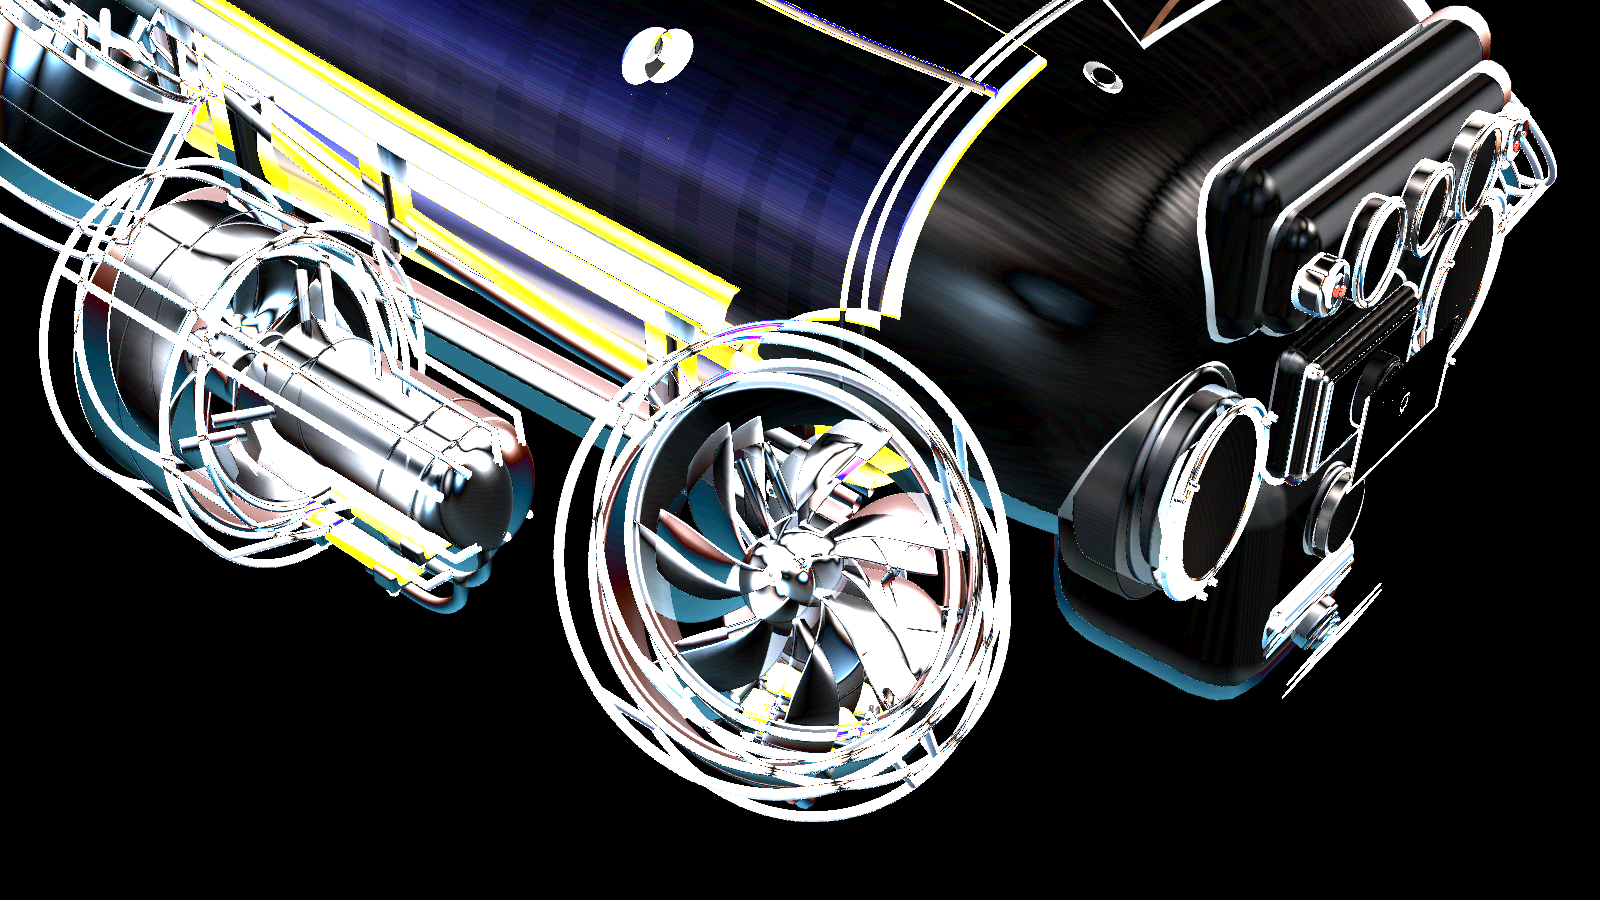
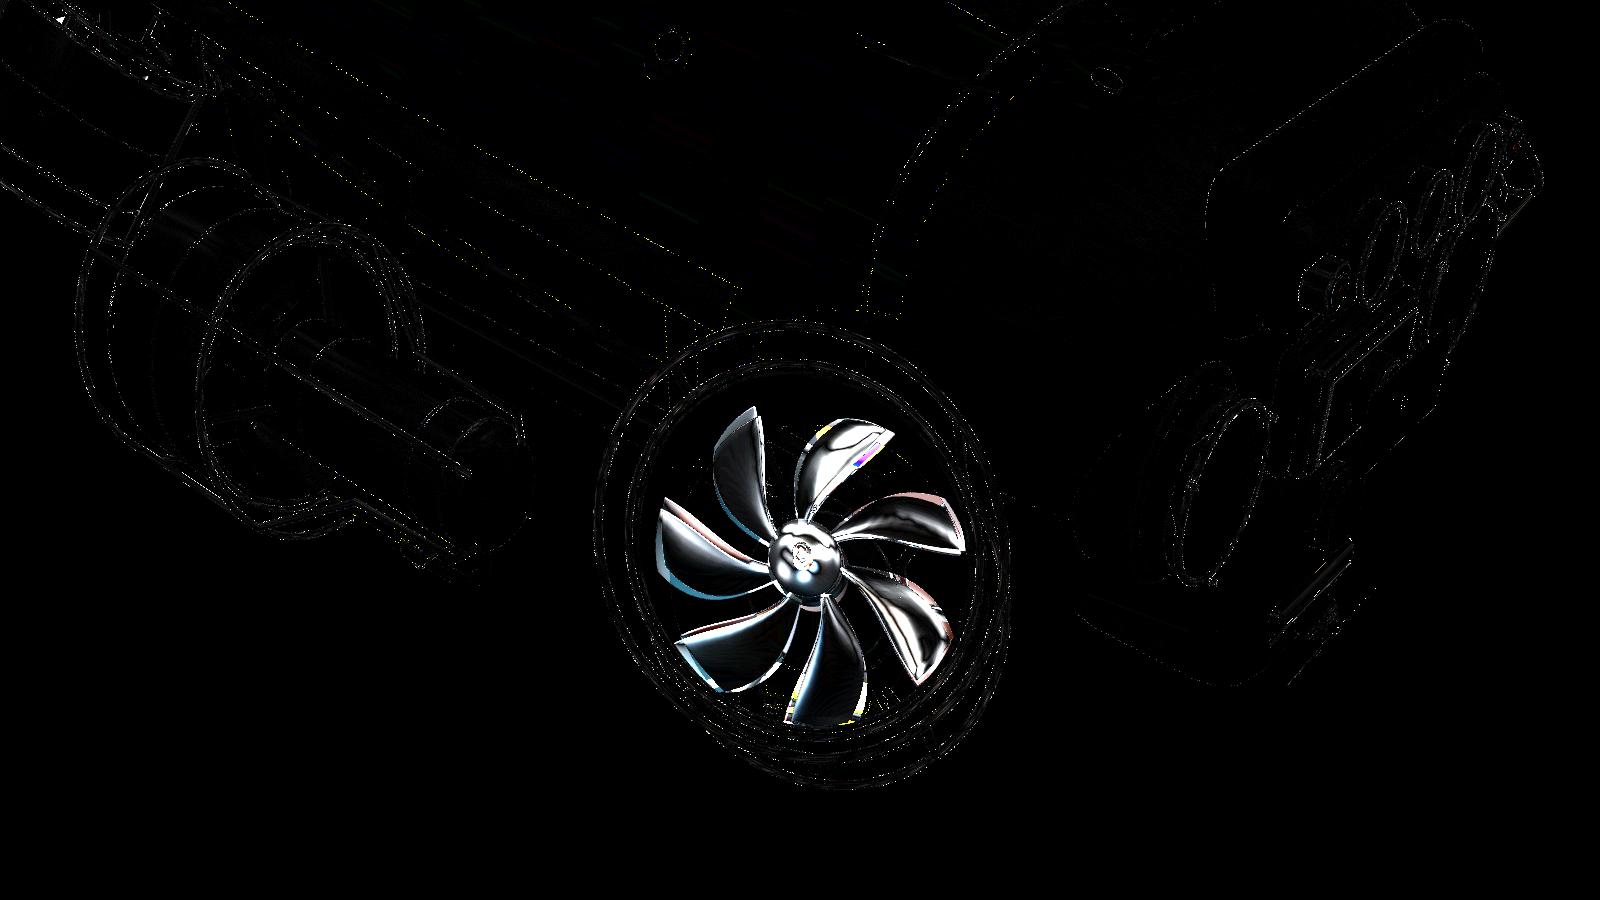
I1 review: keep LOD0 at the true X1 size instead of stretching it
The packed LODs were rescaled to the pre-I1 loose Box3 (0.600 x 0.415 m), which
the old sheared node transforms had inflated; the real geometry is 0.560 x 0.400 m,
so the vehicle drew 7 % wider and 4 % taller. Reuse the old centre and never
rescale. Compare renders regenerated: mean delta 0.04-0.3 % (was 0.9-8.5 %);
thresholds tightened so a stretch fails the check.

Claude-Session: https://claude.ai/code/session_01N551KvQYSQDapLw9TFaBhA

diff --git a/simulator/viewer/vehicle_models.js b/simulator/viewer/vehicle_models.js
@@ -230,6 +230,16 @@ async function loadTrainingX1Lod(minLod = 0) {
   return wrap;
 }
 
+// Centre the pre-I1 rov.glb had under the loose (per-mesh) Box3: its sheared node scales inflated the box to
+// 0.600 x 0.415 x 0.790 m around this point, while the true geometry is 0.560 x 0.400 x 0.790 m. The packed LODs
+// keep the true geometry, so reuse the old centre instead of measuring (and never rescale the mesh).
+const TRAINING_X1_LEGACY_CENTRE = [0, 0.1925, -0.01008];
+
+function legacyX1Centre(model, loadError) {
+  if (!loadError) return new THREE.Vector3(...TRAINING_X1_LEGACY_CENTRE);
+  return new THREE.Box3().setFromObject(model).getCenter(new THREE.Vector3());
+}
+
 /**
  * Load an independent vehicle instance. Lighting intentionally lives outside root.
  * options.assets ('training' | 'generic') overrides the ?assets= query; options.lod picks a LOD.
@@ -252,16 +262,7 @@ export async function createVehicleModel(definition='x1', options={}) {
     model = fallback(id);
   }
   // Preserve the legacy X1 centring convention; fleet GLBs are authored about CG.
-  // Pre-I1 Box3 under X1_GEOMETRY's non-uniform scale reported ~0.600×0.415×0.790;
-  // the packed mesh is the same world geometry but shear-free, so rescale to that footprint.
-  if (legacyX1) {
-    const box = new THREE.Box3().setFromObject(model);
-    const size = box.getSize(new THREE.Vector3());
-    model.position.sub(box.getCenter(new THREE.Vector3()));
-    if (size.x > 0.01 && size.y > 0.01 && size.z > 0.01) {
-      model.scale.multiply(new THREE.Vector3(0.6 / size.x, 0.415 / size.y, 0.79 / size.z));
-    }
-  }
+  if (legacyX1) model.position.sub(legacyX1Centre(model, loadError));
   root.add(model); root.updateMatrixWorld(true);
   const rotors = collectRotors(model, def);
   if (legacyX1) matchLegacyRotors(rotors, def.thrusters);

diff --git a/simulator/tools/render_x1_lod_compare.py b/simulator/tools/render_x1_lod_compare.py
@@ -81,9 +81,10 @@ def main():
     print(json.dumps({'draws_before': {k: v.get('calls') for k, v in before.items()},
                       'draws_after': {k: v.get('calls') for k, v in after.items()},
                       'mean_channel_delta': scores}, indent=2))
-    # Overview views must stay under 2 %; thruster close-up allows 8 % (cage wire quantisation).
-    limits = {'front34': 0.03, 'side': 0.02, 'top': 0.02, 'thruster': 0.09}
-    bad = [view for view, score in scores.items() if score > limits.get(view, 0.02)]
+    # Same size and centre as the baseline: overview views stay under 0.5 %; the thruster close-up allows 1 %
+    # (rotor rest phase and normal quantisation). A rescaled or shifted LOD0 scores several percent.
+    limits = {'front34': 0.005, 'side': 0.005, 'top': 0.005, 'thruster': 0.01}
+    bad = [view for view, score in scores.items() if score > limits.get(view, 0.005)]
     if bad:
         raise SystemExit(f'LOD0 differs too much from baseline in: {", ".join(bad)} ({scores})')
 
